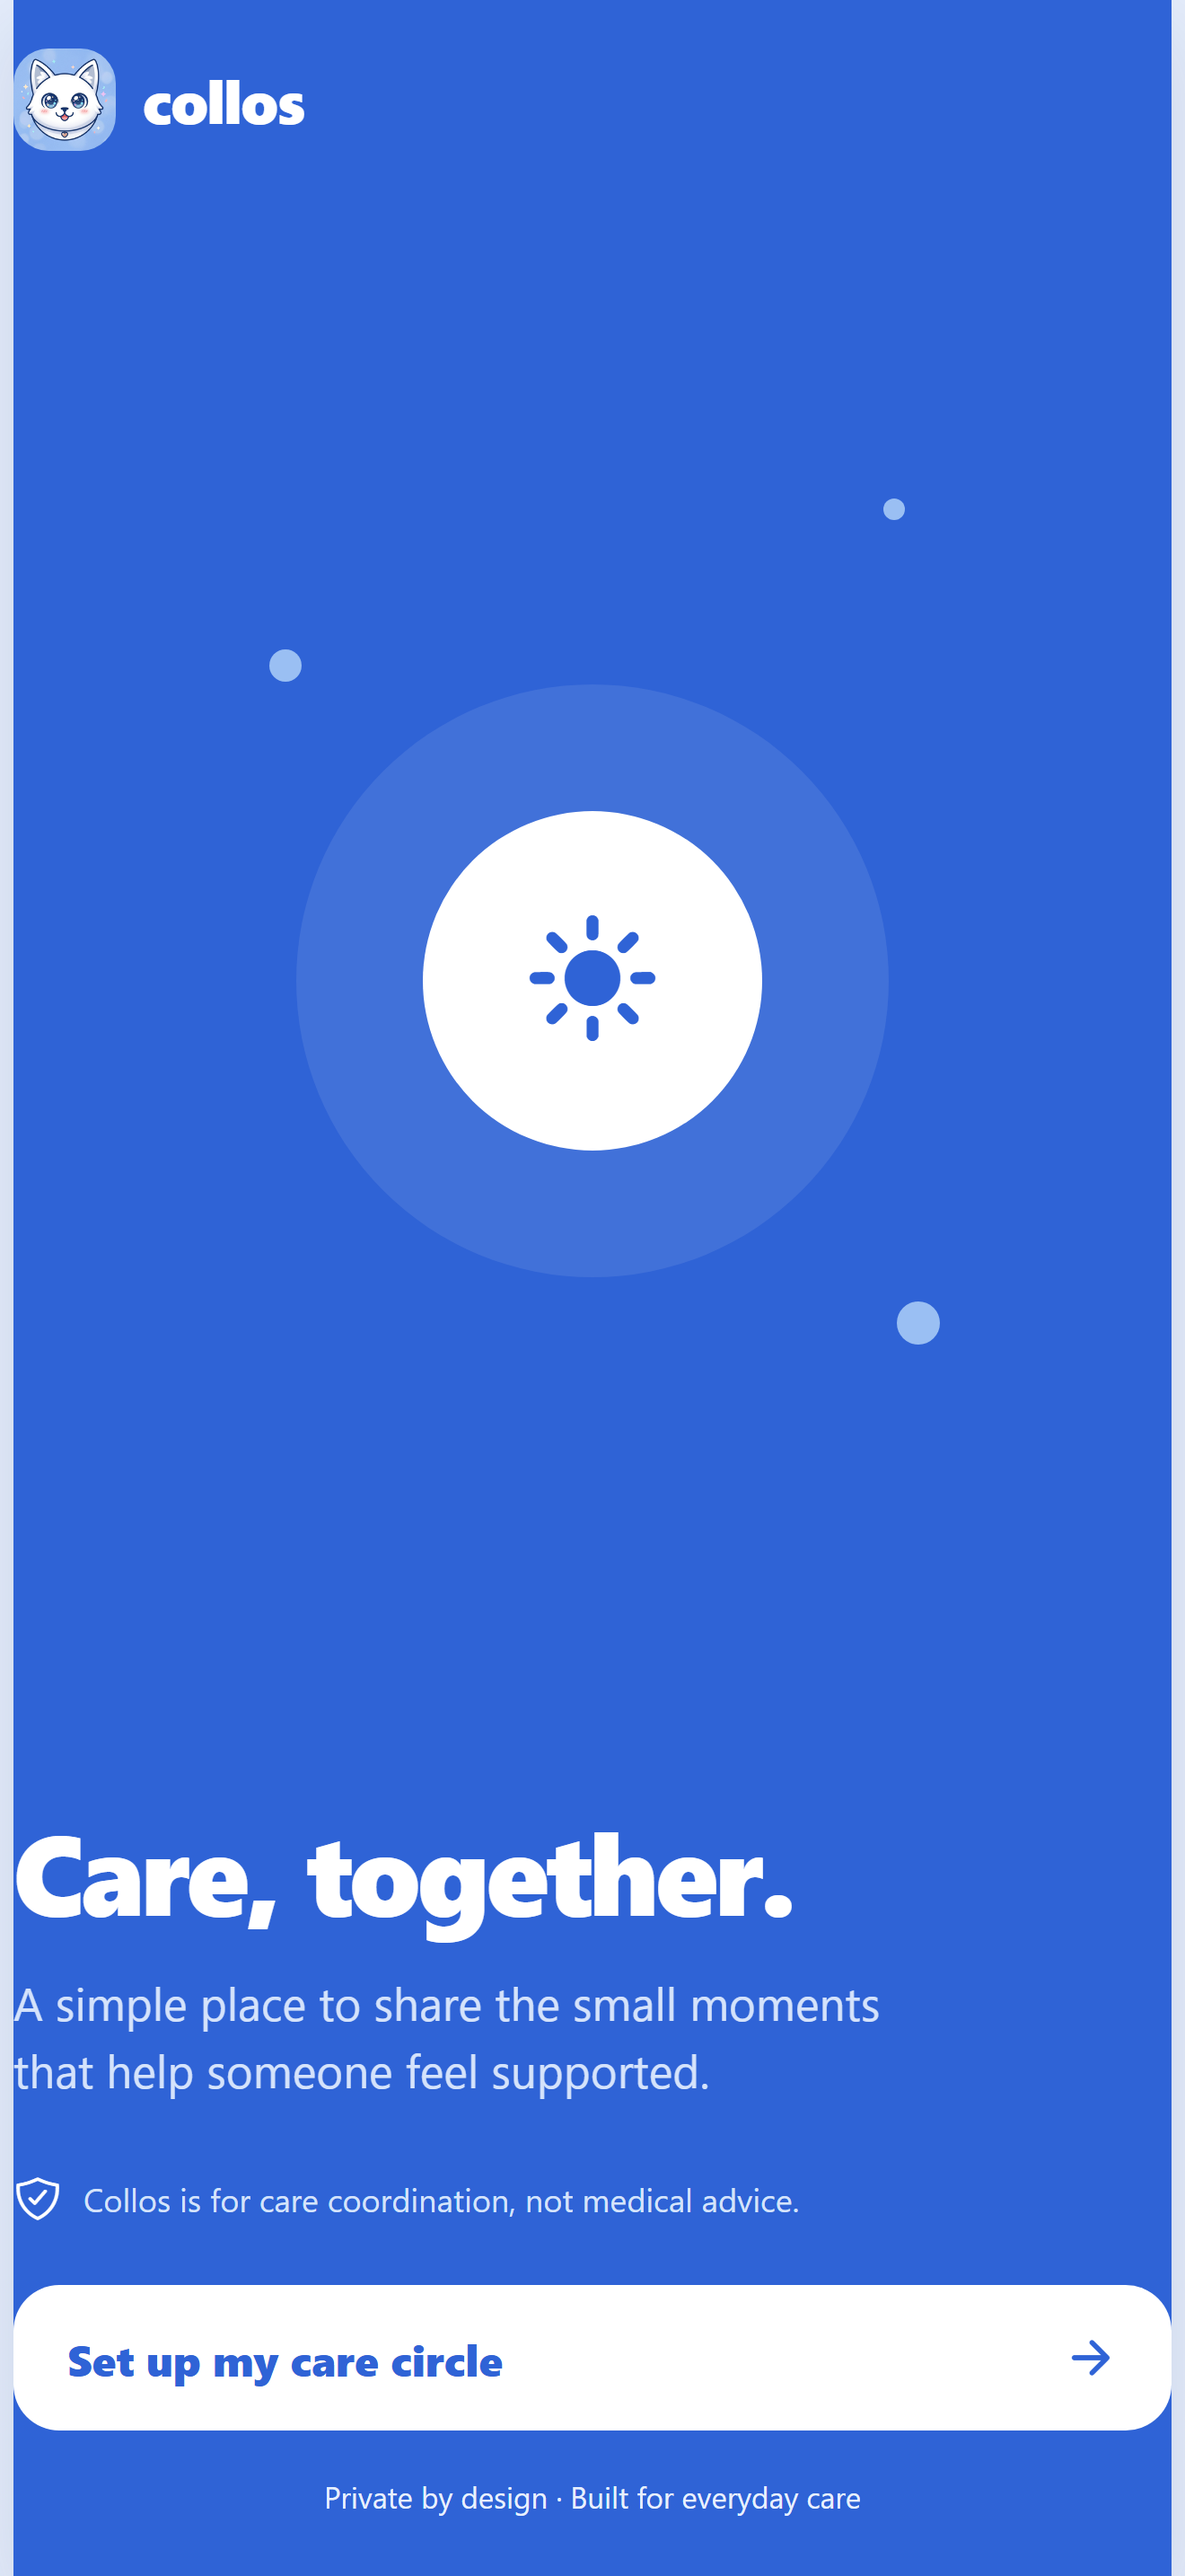
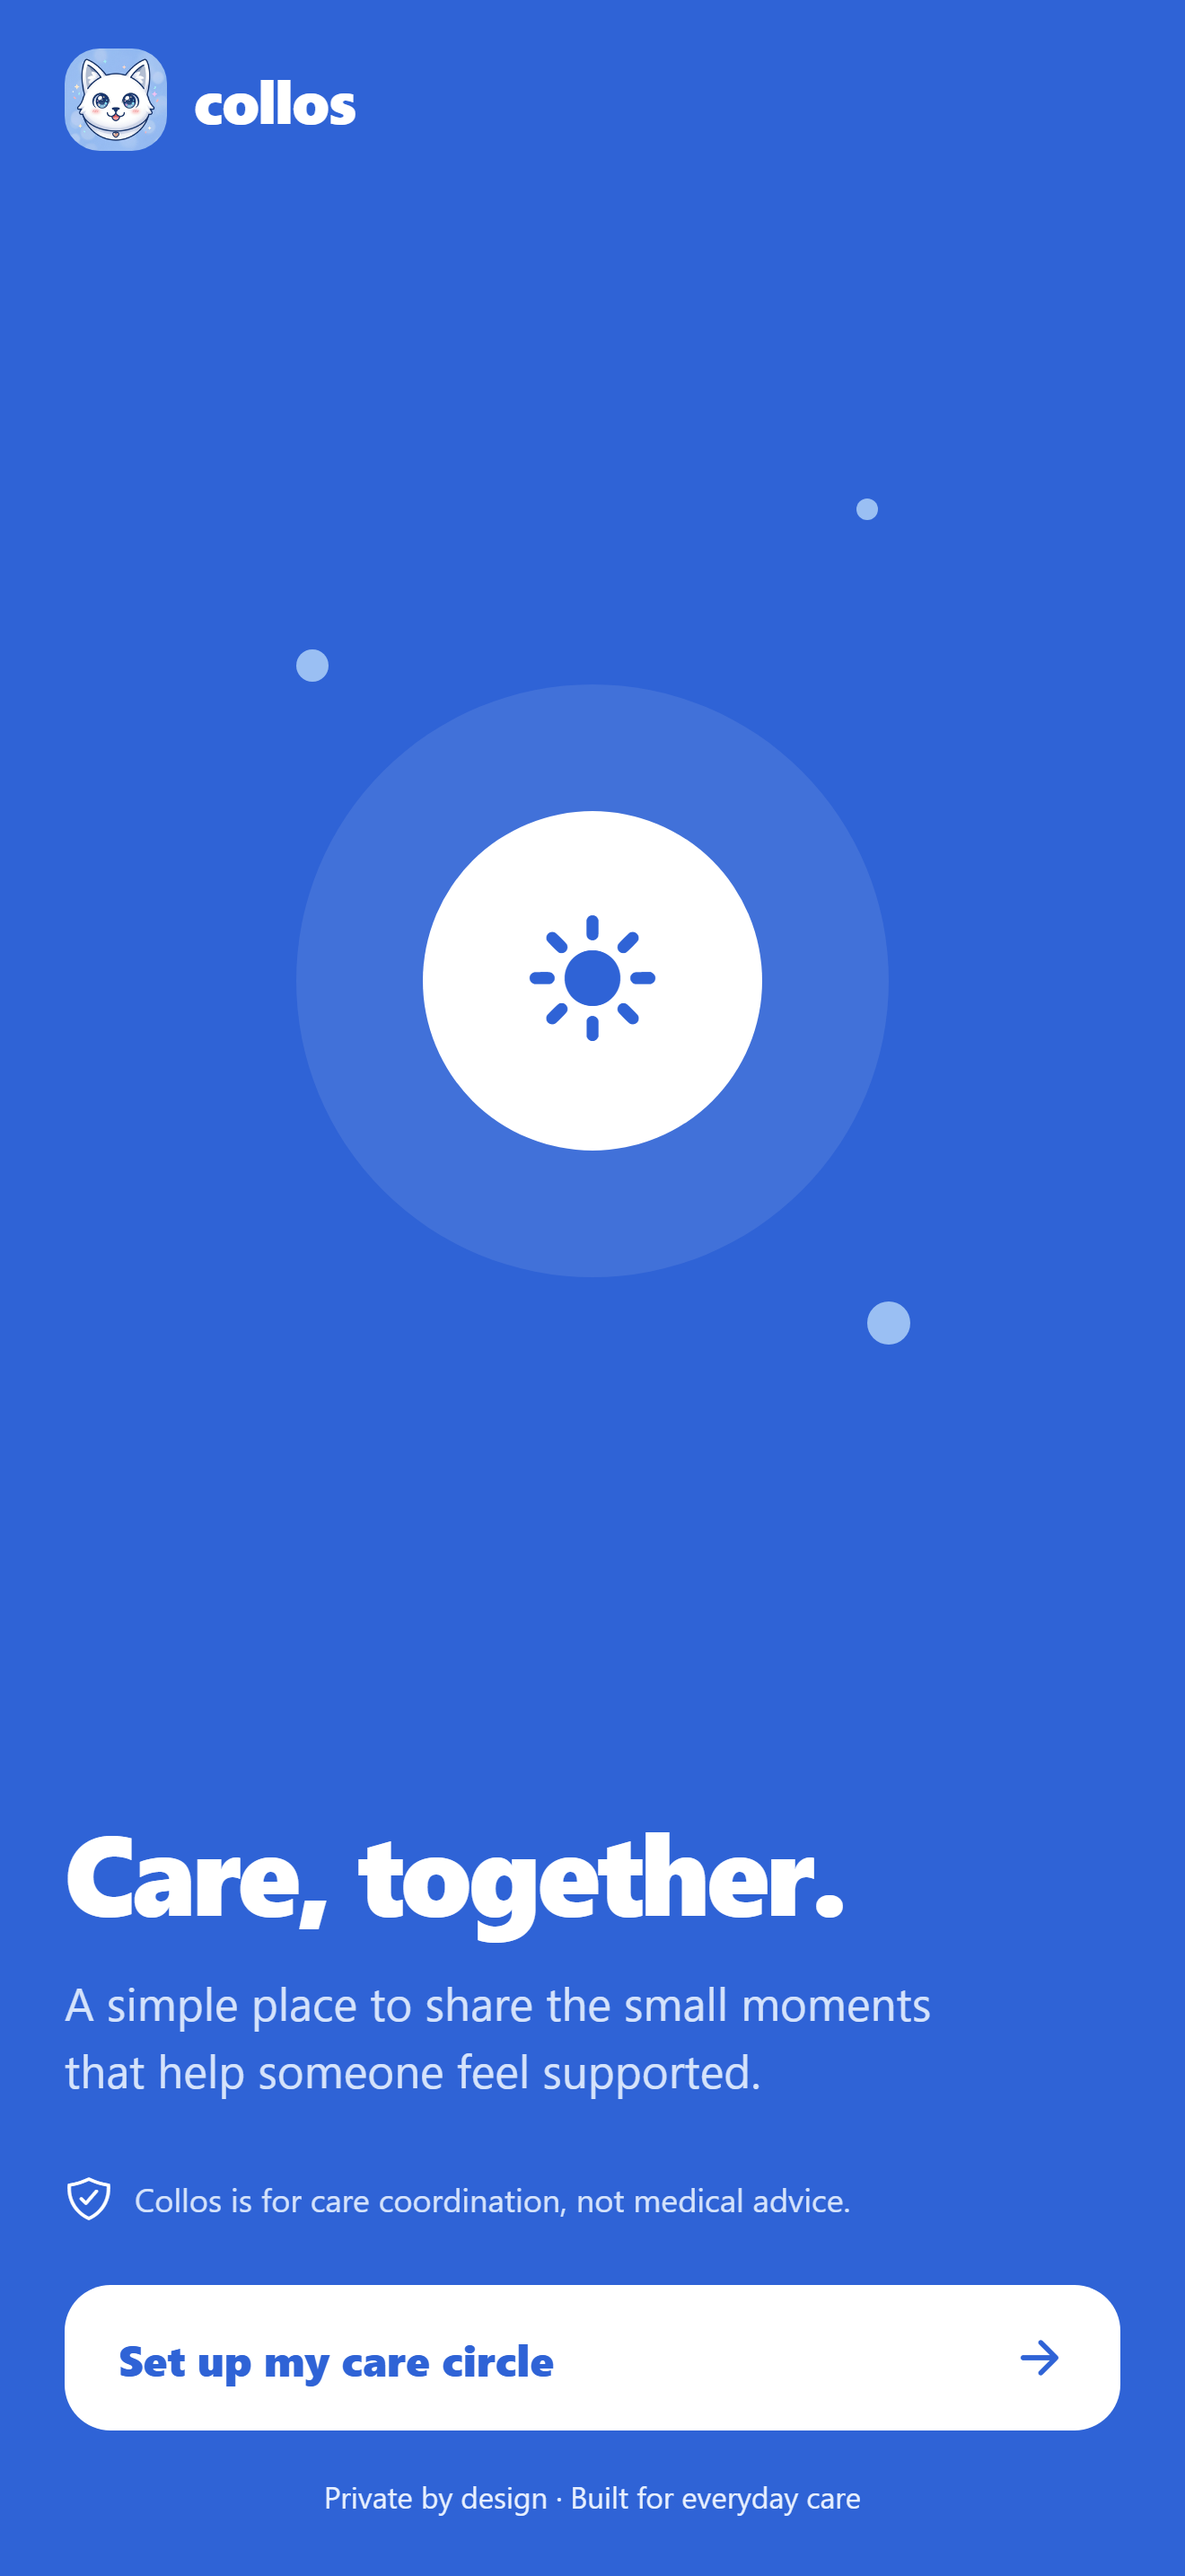
Give the app a device frame and stop it clipping
On a desktop the app was a bare slab of brand colour with no frame, and on a
short window the onboarding button and its footer fell off the bottom with no
way to reach them — that screen was the only one without a scroll container.
The frame cap also applied at every width, so a 440pt phone showed a strip of
background down each side and the web build lost the onboarding side gutter.

🤖 Generated with Codebuff

diff --git a/App.tsx b/App.tsx
@@ -1,5 +1,5 @@
 import React, { useCallback, useEffect, useMemo, useRef, useState } from "react";
-import { ActivityIndicator, StyleSheet, Text, View } from "react-native";
+import { ActivityIndicator, StyleSheet, Text, View, useWindowDimensions } from "react-native";
 import { Ionicons } from "@expo/vector-icons";
 import { NavItem } from "./src/components/NavItem";
 import { PaywallModal } from "./src/components/PaywallModal";
@@ -44,6 +44,12 @@ export default function App() {
   const [isAddingMoment, setAddingMoment] = useState(false);
 
   const pro = usePro();
+
+  // On a wide screen the app is a phone-width column, so it gets a device frame:
+  // without one it read as a bare slab of brand colour floating in the window.
+  // Narrow viewports stay edge to edge, as a phone should.
+  const { width: windowWidth } = useWindowDimensions();
+  const isWide = windowWidth >= 560;
 
   // Restore once on launch. A failed read leaves `stored` empty and the app
   // opens fresh — the same never-failing contract as the purchases wrapper.
@@ -145,7 +151,7 @@ export default function App() {
 
   if (!hydrated) {
     return (
-      <View style={[styles.viewport, styles.launch]}>
+      <View style={[styles.viewport, styles.launch, isWide && styles.viewportWide]}>
         <ActivityIndicator color={colors.blue} />
       </View>
     );
@@ -153,8 +159,8 @@ export default function App() {
 
   if (stage === "onboarding") {
     return (
-      <View style={styles.viewport}>
-        <View style={styles.frame}>
+      <View style={[styles.viewport, isWide && styles.viewportWide]}>
+        <View style={[styles.frame, isWide && styles.frameWide]}>
           <OnboardingScreen isLoading={isLoading} onStart={enterApp} />
         </View>
       </View>
@@ -162,8 +168,8 @@ export default function App() {
   }
 
   return (
-    <View style={styles.viewport}>
-      <View style={styles.frame}>
+    <View style={[styles.viewport, isWide && styles.viewportWide]}>
+      <View style={[styles.frame, isWide && styles.frameWide]}>
         {tab === "Today" ? (
           <TodayScreen
             recipients={mockRecipients}
@@ -245,17 +251,30 @@ const styles = StyleSheet.create({
     flexDirection: "column",
     alignItems: "center",
   },
+  viewportWide: { paddingVertical: 34, paddingHorizontal: 24, justifyContent: "center" },
   launch: { alignItems: "center", justifyContent: "center" },
   frame: {
     flex: 1,
     width: "100%",
-    maxWidth: 430,
     overflow: "hidden",
     backgroundColor: colors.soft,
     shadowColor: colors.ink,
     shadowOpacity: 0.12,
     shadowRadius: 28,
     shadowOffset: { width: 0, height: 12 },
+  },
+  /** The same navy bezel the landing page draws around its phone mockups. */
+  frameWide: {
+    // Capped here rather than in `frame` so the app fills wider phones: a 440pt
+    // device was showing a 430pt frame with a strip of backdrop down each side.
+    maxWidth: 430,
+    maxHeight: 932,
+    borderRadius: 46,
+    borderWidth: 10,
+    borderColor: colors.ink,
+    shadowOpacity: 0.2,
+    shadowRadius: 40,
+    shadowOffset: { width: 0, height: 20 },
   },
   bottomNav: {
     position: "absolute",

diff --git a/src/screens/OnboardingScreen.tsx b/src/screens/OnboardingScreen.tsx
@@ -1,7 +1,16 @@
 import { Ionicons } from "@expo/vector-icons";
 import { StatusBar } from "expo-status-bar";
 import React from "react";
-import { ActivityIndicator, Image, Pressable, SafeAreaView, StyleSheet, Text, View } from "react-native";
+import {
+  ActivityIndicator,
+  Image,
+  Pressable,
+  SafeAreaView,
+  ScrollView,
+  StyleSheet,
+  Text,
+  View,
+} from "react-native";
 import { colors } from "../theme";
 
 export function OnboardingScreen({
@@ -14,6 +23,13 @@ export function OnboardingScreen({
   return (
     <SafeAreaView style={styles.onboarding}>
       <StatusBar style="light" />
+      {/* The only screen with a fixed height, so it is also the only one that
+          could clip: on a short window the button fell off the bottom with no
+          way to reach it. `flexGrow: 1` keeps it filling a tall frame. */}
+      <ScrollView
+        contentContainerStyle={styles.onboardingContent}
+        showsVerticalScrollIndicator={false}
+      >
       <View style={styles.onboardingTop}>
         <View style={styles.logoMark}>
           <Image
@@ -60,12 +76,14 @@ export function OnboardingScreen({
         </Pressable>
         <Text style={styles.onboardingFooter}>Private by design · Built for everyday care</Text>
       </View>
+      </ScrollView>
     </SafeAreaView>
   );
 }
 
 const styles = StyleSheet.create({
-  onboarding: { flex: 1, backgroundColor: colors.blue, paddingHorizontal: 24 },
+  onboarding: { flex: 1, backgroundColor: colors.blue },
+  onboardingContent: { flexGrow: 1, paddingHorizontal: 24 },
   onboardingTop: { flexDirection: "row", alignItems: "center", gap: 10, paddingTop: 18 },
   logoMark: { width: 38, height: 38, borderRadius: 13, overflow: "hidden" },
   logoImage: { width: "100%", height: "100%" },

diff --git a/src/theme.ts b/src/theme.ts
@@ -11,7 +11,7 @@ export const colors = {
   ink: "#183468",
   muted: "#5D7099",
   soft: "#F3F7FE",
-  backdrop: "#E4ECFA",
+  backdrop: "#EDF3FE",
   border: "#E3EAF8",
   /** A border that sits on a wash, where `border` would disappear. */
   borderSoft: "#CFDDF4",

diff --git a/brand.md b/brand.md
@@ -17,7 +17,7 @@ same ones so the phone frames on the site match the app they show.
 - **Blush:** `#DD6B6B` — the coral of the heart on the cat's tag
 - **Muted slate:** `#5D7099` — supporting copy
 - **Soft cloud:** `#F3F7FE` — app background
-- **Backdrop:** `#E4ECFA` — surround behind the centred app frame on wide screens
+- **Backdrop:** `#EDF3FE` — surround behind the device frame on wide screens
 - **White:** `#FFFFFF` — cards and elevated surfaces
 - **Semantic mint:** `#4FA98A` — completed care moments
 - **Lilac:** `#7B76DE` — the fourth moment tone, kept distinct from the blues
